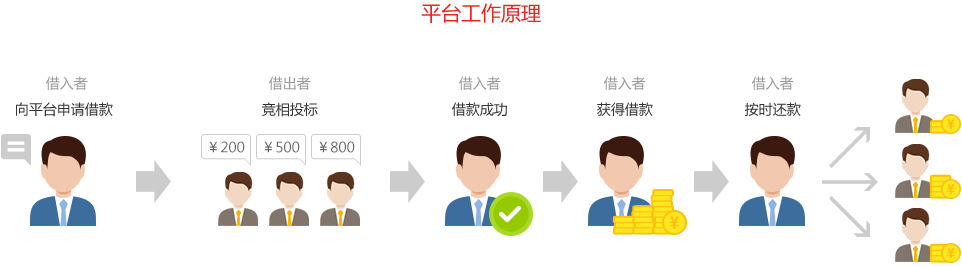
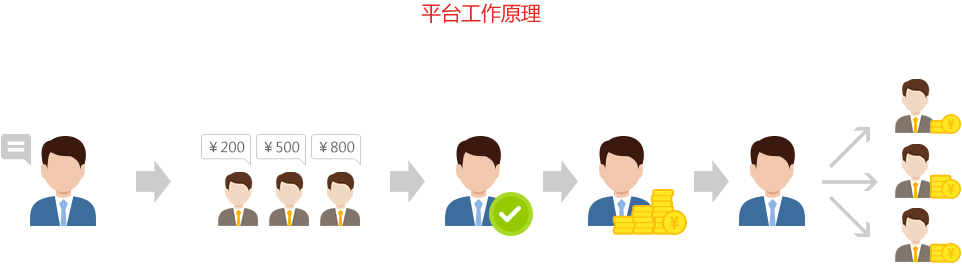
modify about-us

diff --git a/p2p/about-us.html b/p2p/about-us.html
@@ -84,7 +84,7 @@
           <div class="sy-details">
             <p class="f-18"><img src="images/about-us/logo@1x.png" srcset="images/about-us/logo@2x.png" width="304" alt=""></p>
             <p class="details-box f-14">
-             公司于2014年经杭州市政府批准成立并在杭州市工商行政管理局正式注册登记，注册资金1000万元人民币。作为一家专业的互联网金融信息服务机构，发财金由金融管理和电子商务等业界一流的专业团队组成，拥有行业领先的风险管控能力和先进、安全的互联网平台，结合数十年综合的金融、电商及服务经验，通过科学、严谨、安全、高效的业务办理流程，为全国金融投资者提供最专业的金融咨询、风险控制等金融信息服务。发财金已获得新三板上市公司钢钢网的战略投资。钢钢网是国内首家在“新三板”挂牌的钢铁电商平台公司，已与国内知名企业平安证券、华宸未来基金签署战略合作协议，并与发财金达成合作，实现在资本市场的优势互补。
+            公司于2014年经杭州市政府批准成立并在杭州市工商行政管理局正式注册登记，注册资金1000万元人民币。作为一家专业的互联网金融信息服务机构，发财金由顶尖的海外背景金融管理专家和来自阿里、腾讯、携程等知名互联网公司的技术与运营专业团队构成。平台拥有行业领先的风险管控能力和先进、安全的互联网服务体系，结合数十年综合的金融、电商及服务经验，通过科学、严谨、安全、高效的业务办理流程，为全国广大金融投资者提供最专业的金融咨询、风险管控等金融信息服务。目前，发财金已获得新三板上市公司“钢钢网”的战略投资。钢钢网是国内首家在“新三板”挂牌的钢铁电商平台公司，已与国内知名企业平安证券、华宸未来基金签署战略合作协议，并与发财金达成战略合作，实现在资本市场的优势互补，共同推进中国互联网金融行业发展。
             </p>
           </div><!-- .sy-details -->
         </div><!-- .inner -->
@@ -117,6 +117,22 @@
       <div class="platform-work">
         <div class="inner clearfix">
            <img src="images/about-us/platform-work.png" height="267" width="960" alt="">
+           <table>
+             <tr>
+               <th>借入者</th>
+               <th colspan="2">借出者</th>
+               <th class="right" colspan="1">借入者</th>
+               <th>借入者</th>
+               <th>借入者</th>
+             </tr>
+             <tr class="">
+               <td>向平台申请借款</td>
+               <td colspan="2">竞相投标</td>
+               <td  class="right"colspan="1">借款成功</td>
+               <td>获得借款</td>
+               <td>按时还款</td>
+             </tr>
+           </table>
         </div>
       </div><!-- .platform-work -->
       <div class="platform-borrowing">
@@ -126,7 +142,7 @@
       </div><!-- .platform-borrowing -->
       <div class="choose">
         <div class="inner clearfix">
-          <p class="f-18">为什么选择发财金</p>
+          <p class="f-18"></p>
           <ul>
             <li>
               <div><img src="images/about-us/short@1x.png" srcset="images/about-us/short@2x.png" width="100" alt=""></div>
@@ -435,8 +451,12 @@
      <div class="join-us page">
        <div class="inner clearfix">
          <h1>我们需要你</h1>
-         <p class="jo-margin f-14">如果你希望站在互联网金融的风口浪潮之上，创造属于自己的事业；如果你希望与最优秀的人共事，创造令人激动的产品；如果你厌倦了扯皮、内耗，希望快乐简单的工作，做技术，做产品，用自己的能力与智慧改变世界；请加入我们--发财金</p>
-         <p class="f-14">发财金是一个非常重视技术文化的公司，在我们的技术团队，工程师们不仅仅是同代码简单的对话而已，而是在构建自己所喜欢的、用户所需要的，也是在构建一个宏伟的梦想。在这里，“严谨，开放，投入，乐高”是我们的工程师文化，我们享受着和一流的人一起工作的快乐，欢迎加入我们的技术团队。</p>
+         <div class="jo-details">
+           <p class="jo-margin f-16">如果你希望站在互联网金融的风口浪潮之上，创造属于自己的事业。</p>
+           <p class="f-16">如果你希望与最优秀的人共事，创造令人激动的产品。</p>
+           <p class="f-16"> 如果你厌倦了扯皮、内耗，希望快乐简单的工作，做技术，做产品，用自己的能力与智慧改变世界。</p>
+           <p class="f-16 margin-r">请加入我们--发财金。</p>
+         </div>
        </div>
        <div class="position inner clearfix">
          <ul class="po-nav">

diff --git a/p2p/css/compassSass/stylesheets/about-us.css b/p2p/css/compassSass/stylesheets/about-us.css
@@ -61,7 +61,31 @@
 .platform-work {
   background: #f6f6f6;
 }
+.platform-work table {
+  border-collapse: collapse;
+  border-spacing: 0;
+  width: 933px;
+  position: relative;
+  bottom: 205px;
+  left: -73px;
+}
+.platform-work tr th,
+.platform-work tr td {
+  line-height: 23px;
+  font-size: 16px;
+  text-align: center;
+}
+.platform-work tr th {
+  color: #a09e9e;
+}
+.platform-work .right {
+  position: relative;
+  left: 21px;
+}
 
+.platform-work tr td {
+  color: #1b1a1a;
+}
 /* line 45, ../sass/about-us.scss */
 .platform-borrowing,
 .mission-box {
@@ -157,6 +181,8 @@
 
 .mi-details dl dd span {
   color: #e12b2b;
+  font-size: 15px;
+  font-weight:bold;
 }
 
 .mi-details dl dd p {
@@ -196,17 +222,19 @@
 
 /* line 84, ../sass/about-us.scss */
 .choose .f-18 {
-  color:#df1d1d;
-  font-family: "Helvetica Neue";
-  text-align: center;
-  font-weight: bold;
-  font-size: 24px;
-}
+  background: url(../../../images/about-us/why.png) center no-repeat;
+  display: block;
 
+  height: 54px;
+}
+.jo-details {
+  margin: 0 auto;
+  width: 736px;
+}
 /* line 90, ../sass/about-us.scss */
 .choose ul {
   margin-left: 75px;
-  margin-top: 48px;
+  margin-top: 40px;
   overflow: hidden;
 }
 /* line 94, ../sass/about-us.scss */
@@ -573,19 +601,27 @@ table td{
 /* line 265, ../sass/about-us.scss */
 .join-us .jo-margin {
   font-size: 12px;
-  line-height: 20px;
-  margin-top: 18px;
+  line-height: 28px;
+  margin-top: 34px;
 }
 
 /* line 271, ../sass/about-us.scss */
 .join-us h1 {
-  font-size: 20px;
+  font-size: 30px;
   text-align: center;
   font-weight: bold;
+  font-family: "Microsoft YaHei";
 }
 
 .join-us p {
-  line-height: 20px;
+  font-family: "Microsoft YaHei";
+  text-indent :32px;
+  line-height: 28px;
+}
+
+.margin-r {
+  text-align:right;
+  margin-top: 20px;
 }
 /* line 276, ../sass/about-us.scss */
 .position {
@@ -597,7 +633,7 @@ table td{
 }
 .po-nav {
   display: block;
-  width: 780px;
+  width: 820px;
   margin :0 auto;
   padding-left: 32px;
   overflow :hidden;
@@ -606,6 +642,7 @@ table td{
 .po-nav li {
   display: inline-block;
   padding: 10px 18px;
+  font-size: 16px;
   margin: 0 18px;
 }
 /* line 290, ../sass/about-us.scss */

diff --git a/symfx/css/promotion-page.css b/symfx/css/promotion-page.css
@@ -8,10 +8,33 @@
 }
 
 .banner-box {
-  border: 1px solid red;
-  height:420px;
+  position: relative;
+  height:auto;
+  
 }
+.register {
+  height: 52px;
+  width: 200px;
+  position: absolute;
+  top:50%;
+  left:50%;
+}
+.register a {
+  background: url(../images/banner/register@1x.png) 0 0 no-repeat ;
+  background-image: -webkit-image-set( url(../images/banner/register@1x.png) 1x, url(../images/banner/register@2x.png) 2x);
+  display: block;
+  width: 200px;
+  height: 52px;
+  margin-left: -100px;
+  margin-top: -25px;
+}
+
+.register a:hover {
+  background-image: -webkit-image-set( url(../images/banner/registerhover@1x.png) 1x, url(../images/banner/registerhover@2x.png) 2x);
+}
+
 .operation {
+  margin-top: 10px;
   position:relative;
 }
 .operation a {
@@ -33,8 +56,41 @@
 .operation {
   padding-left: 20px;
 }
+.currency {
+  position: relative;
+}
+.company {
+  box-sizing:border-box;
+  -webkit-box-sizing:border-box;
+  background:#f2f2f2;
+  bottom: 400px;
+  padding:20px 40px;
 
+}
+
+.open-door {
+  border:1px solid yellow;
+  border-radius:6px;
+  bottom:200px;
+  color:yellow;
+  display: block !important;
+  left: 403px;
+  text-align: center;
+  line-height: 46px;
+  font-size: 18px;
+  width: 138px;
+  height: 46px;
+  position: absolute;
+}
+
+a:hover {
+  color:#fff;
+  cursor:pointer;
+}
 .currency img {
   margin: 0 auto;
   width: 100%;
+}
+.currency  {
+  margin: 20px auto;
 }

diff --git a/symfx/promotion-page.html b/symfx/promotion-page.html
@@ -23,9 +23,9 @@
 </div><!-- /.top-->
 
 <div class="promotion">
-  <div class="inner clearfix banner-box">
-    <img src="" alt="">
-    <a href="">立即注册领取</a>
+  <div class=" banner-box clearfix">
+    <img src="images/banner/banner01.jpg" width="100%" alt="">
+    <div class="inner register"><a class="" href=""></a></div>
   </div>
   <div class="inner clearfix advantage">
     <img src="images/banner/advantage.png" height="362" width="913" alt="">
@@ -35,10 +35,12 @@
     <a class="f-18" href="">立即开通</a>
   </div>
   <div class="inner clearfix currency">
-    <img src="images/banner/currency.png" alt="">
+    <img src="images/banner/currency.png"  alt="">
   </div>
-  <div class="inner clearfix currency">
-    <img src="images/banner/currency.png" alt="">
+  <div class="inner clearfix currency margin">
+    <img src="images/banner/currency01.jpg" alt="">
+    <div class="company"><img src="images/banner/company@1x.png" alt=""></div>
+    <a class="open-door">立即开户</a>
   </div>
 </div><!--/.promotion-->
 
